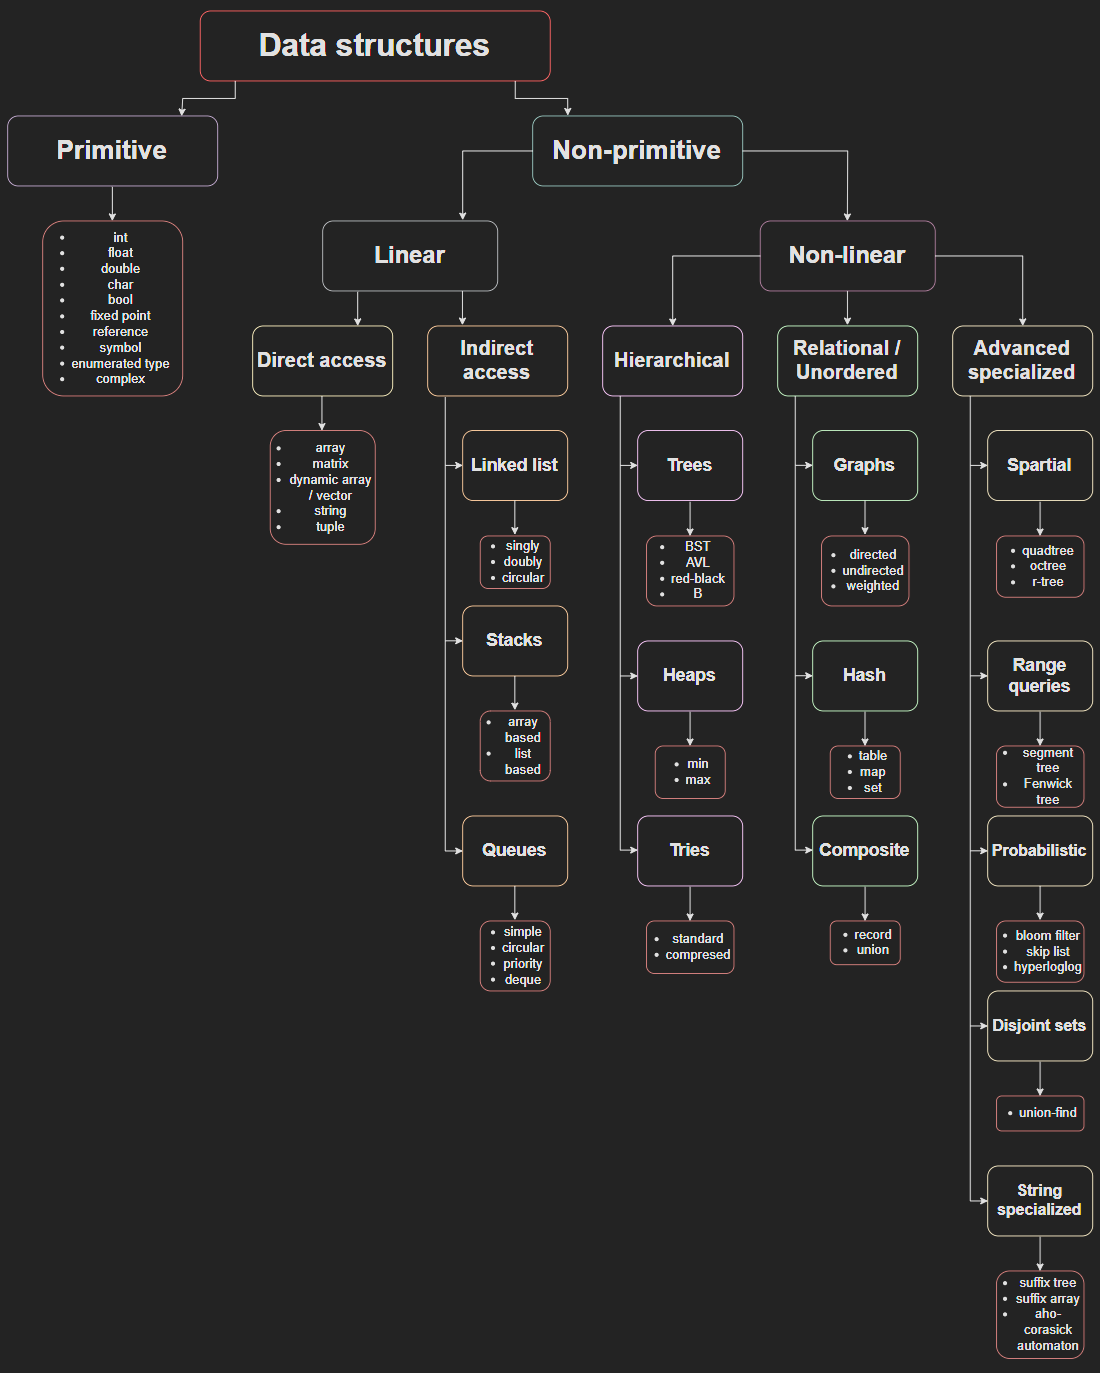
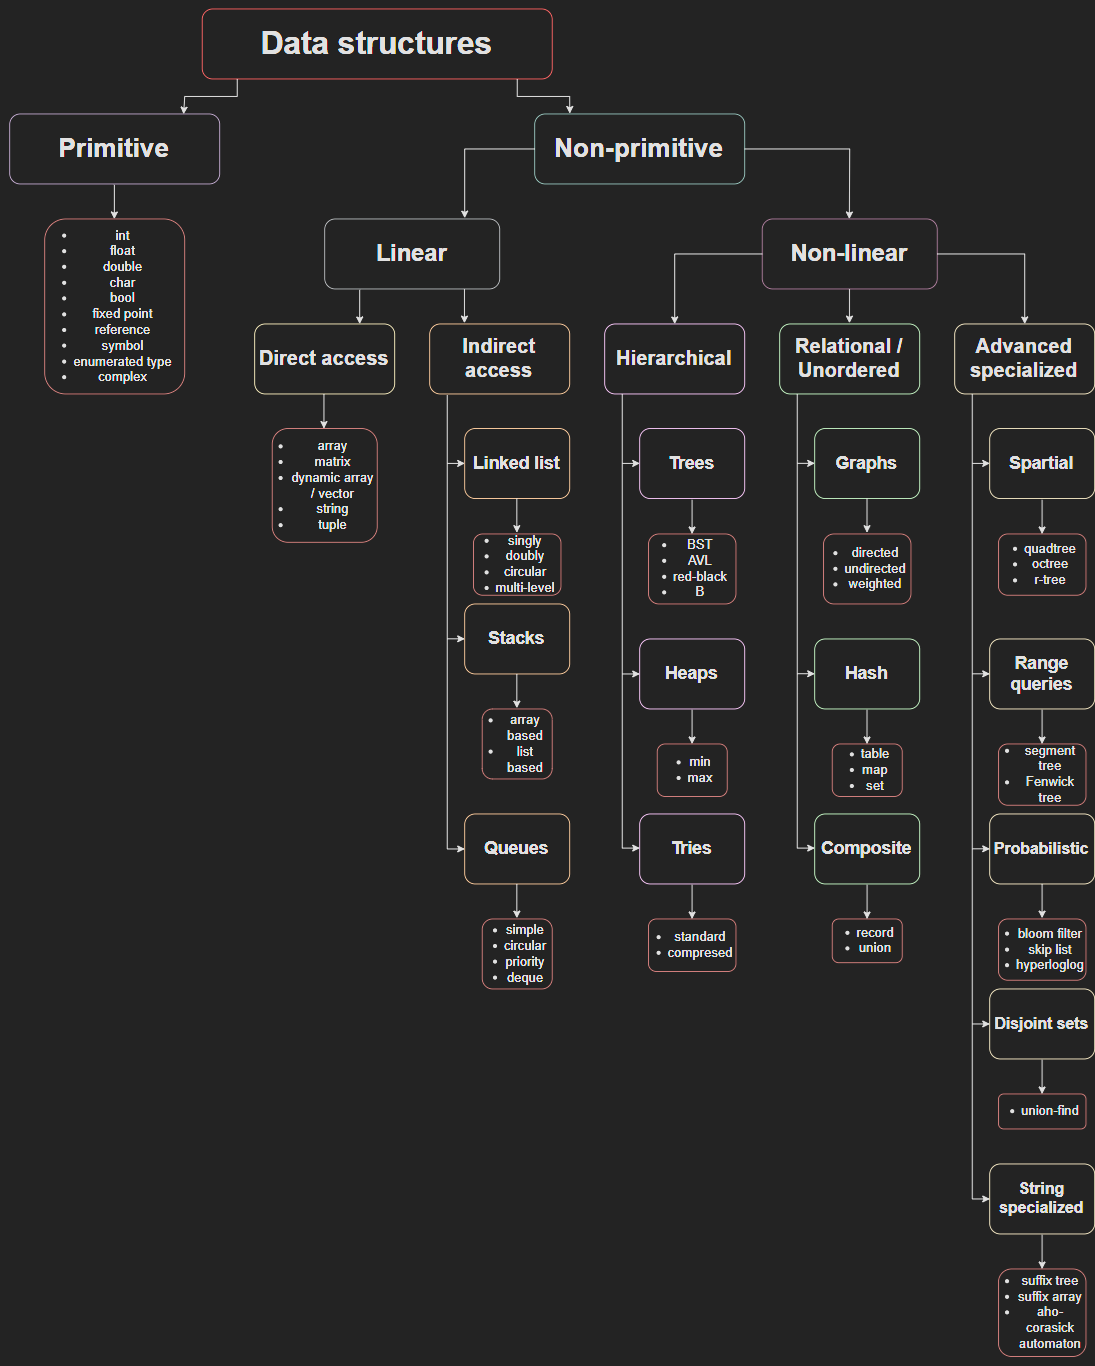
Add ALOHAnet protocol documentation and metadata; update data structures and todo list

diff --git a/ALOHAnet/index.md b/ALOHAnet/index.md
@@ -1,0 +1,100 @@
+# ALOHAnet Protocol
+- [What is ALOHA?](#what-is-aloha)
+- [ALOHA](#aloha)
+  - [Pure ALOHA](#pure-aloha)
+  - [Slotted ALOHA](#slotted-aloha)
+- [Collision Handling and Backoff](#collision-handling-and-backoff)
+- [Pure ALOHA vs Slotted ALOHA](#pure-aloha-vs-slotted-aloha)
+- [Legacy and Influence](#legacy-and-influence)
+- [Sources](#sources)
+
+## What is ALOHA?
+
+ALOHA (**Additive Links On-line Hawaii Area**) is one of the earliest **random-access protocols** for shared communication channels, developed by **Norman Abramson** at the **University of Hawaii** in **1970** as part of the **ALOHAnet** project.
+
+The problem was simple: multiple computers spread across the Hawaiian islands needed to communicate over a single shared radio channel, without a central controller assigning turns. The solution was to let any station transmit whenever it had data and deal with collisions after the fact.
+
+> [!NOTE]
+> The word "ALOHA" isn't used as a message in this protocol, it's a common misconception.
+> Though this expansion was rarely used. The name is primarily the Hawaiian word for hello/goodbye. It is not a message or signal within the protocol itself.
+
+## ALOHA
+
+**Frame** is a chunk of data wrapped with a header (addressing info) and a trailer (error detection), essentially a packet wrapped for transmission over a shared channel.
+
+### Pure ALOHA
+
+In Pure ALOHA, when data is available for a station that station transmits a frame, without checking if the channel is free.
+If two transmissions overlap even partially, a **collision** occurs and both frames are destroyed.
+
+The sender waits for an **acknowledgment (ACK)** from the receiver. If no ACK arrives within a timeout, the sender assumes a collision happened and retransmits after a **random backoff**.
+
+The **vulnerable period** for a frame of duration `T` is `2T`, any other transmission starting within `T` before or during the frame causes a collision.
+
+Maximum throughput formula:
+
+$S = G \cdot e^{-2G}$
+
+Where:
+- $S$ = **throughput**, the fraction of successful (collision-free) transmissions.
+- $G$ = **offered load**, the average number of transmission attempts per frame time (including retransmissions).
+- $e$ = **Euler's number**, a mathematical constant approximately equal to **2.718**.
+
+This peaks at $G = 0.5$, giving a maximum channel utilization of **~18.4%** ($\frac{1}{2e}$).
+
+### Slotted ALOHA
+
+In **1972**, **Lawrence Roberts** proposed an improvement: divide time into discrete **slots** of fixed duration `T`. Stations may only begin transmitting at the **start of a slot**.
+
+This simple constraint reduces the vulnerable period from `2T` to just `T`, because collisions can only happen when two or more stations choose the **same slot**.
+
+Maximum throughput formula:
+
+$S = G \cdot e^{-G}$
+
+This peaks at $G = 1$, giving a maximum channel utilization of **~36.8%** ($\frac{1}{e}$), exactly **double** Pure ALOHA.
+
+> [!NOTE]
+> Slotted ALOHA requires all stations to be synchronized to a common clock, adding complexity but doubling efficiency.
+
+## Collision Handling and Backoff
+
+When a collision is detected (no ACK received), the station doesn't retransmit immediately, it waits a **random delay** to avoid repeated collisions with the same station.
+
+The most common strategy is **Binary Exponential Backoff**:
+after the $n$-th collision, pick a random delay from $[0, 2^n - 1]$ slots.
+
+```
+delay = random(0, 2^attempt - 1) * slot_time
+```
+
+As congestion increases, the backoff window grows exponentially, spreading retransmissions over a wider time range.
+This same backoff strategy was later adopted by **Ethernet (IEEE 802.3)**.
+
+## Pure ALOHA vs Slotted ALOHA
+
+| Feature | Pure ALOHA | Slotted ALOHA |
+| :--- | :--- | :--- |
+| Time division | None (continuous) | Fixed time slots |
+| Transmission rule | Send anytime | Send at slot start only |
+| Vulnerable period | 2T | T |
+| Max throughput | ~18.4% (1/2e) | ~36.8% (1/e) |
+| Synchronization | Not required | Required (shared clock) |
+| Complexity | Simpler | Slightly more complex |
+
+## Legacy and Influence
+
+Despite its low throughput by modern standards, ALOHA's impact on networking is immense:
+
+- **Ethernet**: Bob Metcalfe visited the University of Hawaii to study ALOHAnet during his Harvard PhD, before developing Ethernet at **Xerox PARC** in 1973. Ethernet's **CSMA/CD** (Carrier Sense Multiple Access with Collision Detection) is essentially ALOHA with "listen before talking" and "detect collisions mid-transmission" added on top.
+- **Wi-Fi (IEEE 802.11)**: Uses **CSMA/CA** (Collision Avoidance), another direct descendant of ALOHA's random-access approach.
+- **Cellular Networks**: Modern random access schemes in **LTE** and **5G** still use slotted ALOHA variants for initial device-to-base-station communication.
+- **Satellite Communication**: Slotted ALOHA remains widely used in satellite systems where propagation delays make centralized scheduling impractical.
+
+ALOHA's core idea, let stations transmit freely and deal with collisions after the fact, remains foundational to modern networking.
+
+## Sources
+
+- [ALOHAnet - Wikipedia](https://en.wikipedia.org/wiki/ALOHAnet)
+- [Computerphile - The Aloha Protocol](https://www.youtube.com/watch?v=oKrUGRVwFBI)
+- [IEEE Milestones Program](https://ieeemilestones.ethw.org/Milestone-Proposal:ALOHANET_(aka_ALOHA_System))

diff --git a/Data structues/index.md b/Data structues/index.md
@@ -59,6 +59,7 @@ These require traversing through other elements to reach a specific one:
   - **Singly**: Each node points to the next.
   - **Doubly**: Each node points to both next and previous.
   - **Circular**: The last node points back to the first.
+  - **Multi-level**: Each node can create a 2D-like structure, that is essentially a list of lists, instead of pointer just to next also have a pointer to bottom
   - *When to use:* When frequent insertions/deletions at both ends are needed, or for implementing stacks/queues without size limits.
 - **Stacks**: Follows LIFO (Last-In-First-Out) principle.
   - *When to use:* For undo mechanisms in software, expression evaluation (parsers), or backtracking algorithms.
@@ -80,7 +81,8 @@ These require traversing through other elements to reach a specific one:
 | **Tuple** | $O(1)$ | $O(n)$ | $N/A$ | $N/A$ | $O(n)$ |
 | **Singly Linked List** | $O(n)$ | $O(n)$ | $O(1)$ | $O(1)$ | $O(n)$ |
 | **Doubly Linked List** | $O(n)$ | $O(n)$ | $O(1)$ | $O(1)$ | $O(n)$ |
-| **Circular List** | $O(n)$ | $O(n)$ | $O(1)$ | $O(1)$ | $O(n)$ |
+| **Circular Linked List** | $O(n)$ | $O(n)$ | $O(1)$ | $O(1)$ | $O(n)$ |
+| **Multi-level Linked List** | $O(n)$ | $O(n)$ | $O(1)$ | $O(1)$ | $O(n)$ |
 | **Stack** | $O(n)$ | $O(n)$ | $O(1)$ | $O(1)$ | $O(n)$ |
 | **Simple Queue** | $O(n)$ | $O(n)$ | $O(1)$ | $O(1)$ | $O(n)$ |
 | **Priority Queue** | $O(1)$ | $O(n)$ | $O(\log n)$ | $O(\log n)$ | $O(n)$ |

diff --git a/todo.md b/todo.md
@@ -20,7 +20,6 @@
 - dependencies injection,
 - Inversion of control,
 - little big endian,
-- aloha protocol,
 - queues and when (also queues as DB),
 - Win vs Linux memory,
 - When and why k8s and docker/podman,
@@ -49,3 +48,8 @@
 - race conditions
 - API Architectural Styles
 - Network Security and Access Solutions
+- ACID
+- Dynamic programming
+- Shortening URL
+- BFS vs DFS
+- interview questions
